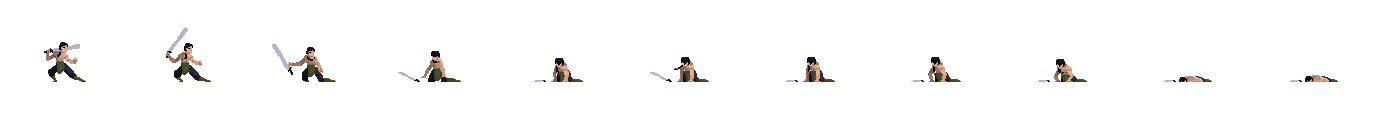
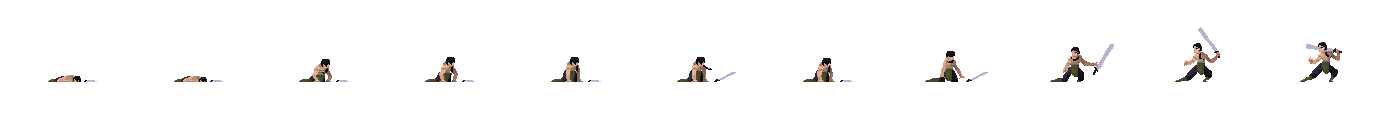
Left and Right Sprites

diff --git a/index.js b/index.js
@@ -98,11 +98,7 @@ const player1 = new Figther ({
         death:{
             imagesrc:"./img/samurai/Death.png",
             frameMax: 6,
-        },
-        deathleft:{
-            imagesrc:"./img/samurai/Deathleft.png",
-            frameMax: 6,
-        },
+        }
     },
     attackbox:{
         offset:{
@@ -196,11 +192,8 @@ const opponent = new Figther({
         death:{
             imagesrc:"./img/monk/Death.png",
             frameMax: 11,
-        },
-        deathleft:{
-            imagesrc:"./img/monk/Deathleft.png",
-            frameMax: 11,
         }
+        
     },
     attackbox:{
         offset:{
@@ -322,20 +315,11 @@ function determineWinner(player1, opponent){
         }
     else if( player1.health > opponent.health ){
             document.querySelector('#displayText').innerHTML = 'Player 1 Wins'
-            if(opponent.lastDirection === 'left'){
-                opponent.swichSprites('deathleft')
-            }else{
-                opponent.swichSprites('death')
-            }
-            
+            opponent.swichSprites('death')           
         }
     else if(opponent.health > player1.health){
             document.querySelector('#displayText').innerHTML = 'Player 2 Wins'
-            if(player1.lastDirection === 'left'){
-                player1.swichSprites('deathleft')
-            }else{
-                player1.swichSprites('death')
-            }          
+                player1.swichSprites('death')      
         }
 }
 

diff --git a/classes/Figther.js b/classes/Figther.js
@@ -114,10 +114,6 @@ class Figther extends Sprite {
             (this.framesCurrent < this.sprites.death.frameMax -1)
             this.dead = true
              return}
-             if(this.image === this.sprites.deathleft.image){
-                (this.framesCurrent < this.sprites.deathleft.frameMax -1)
-                this.dead = true
-                 return}
 
         switch(sprite){
             case 'idle':
@@ -229,13 +225,6 @@ class Figther extends Sprite {
                 this.framesCurrent = 0
                 }
             break;
-            case 'deathleft':
-                if(this.image !== this.sprites.deathleft.image){
-                this.image = this.sprites.deathleft.image
-                this.frameMax = this.sprites.deathleft.frameMax
-                this.framesCurrent = 0
-                }
-            break;
         }
     }
 
@@ -250,7 +239,7 @@ class Figther extends Sprite {
         this.attackbox.position.x = this.position.x + this.attackbox.offset.x
         this.attackbox.position.y = this.position.y + this.attackbox.offset.y
         
-        ctx.fillRect(this.attackbox.position.x,this.attackbox.position.y,this.attackbox.width,this.attackbox.height)
+        //ctx.fillRect(this.attackbox.position.x,this.attackbox.position.y,this.attackbox.width,this.attackbox.height)
     
     }
 }
